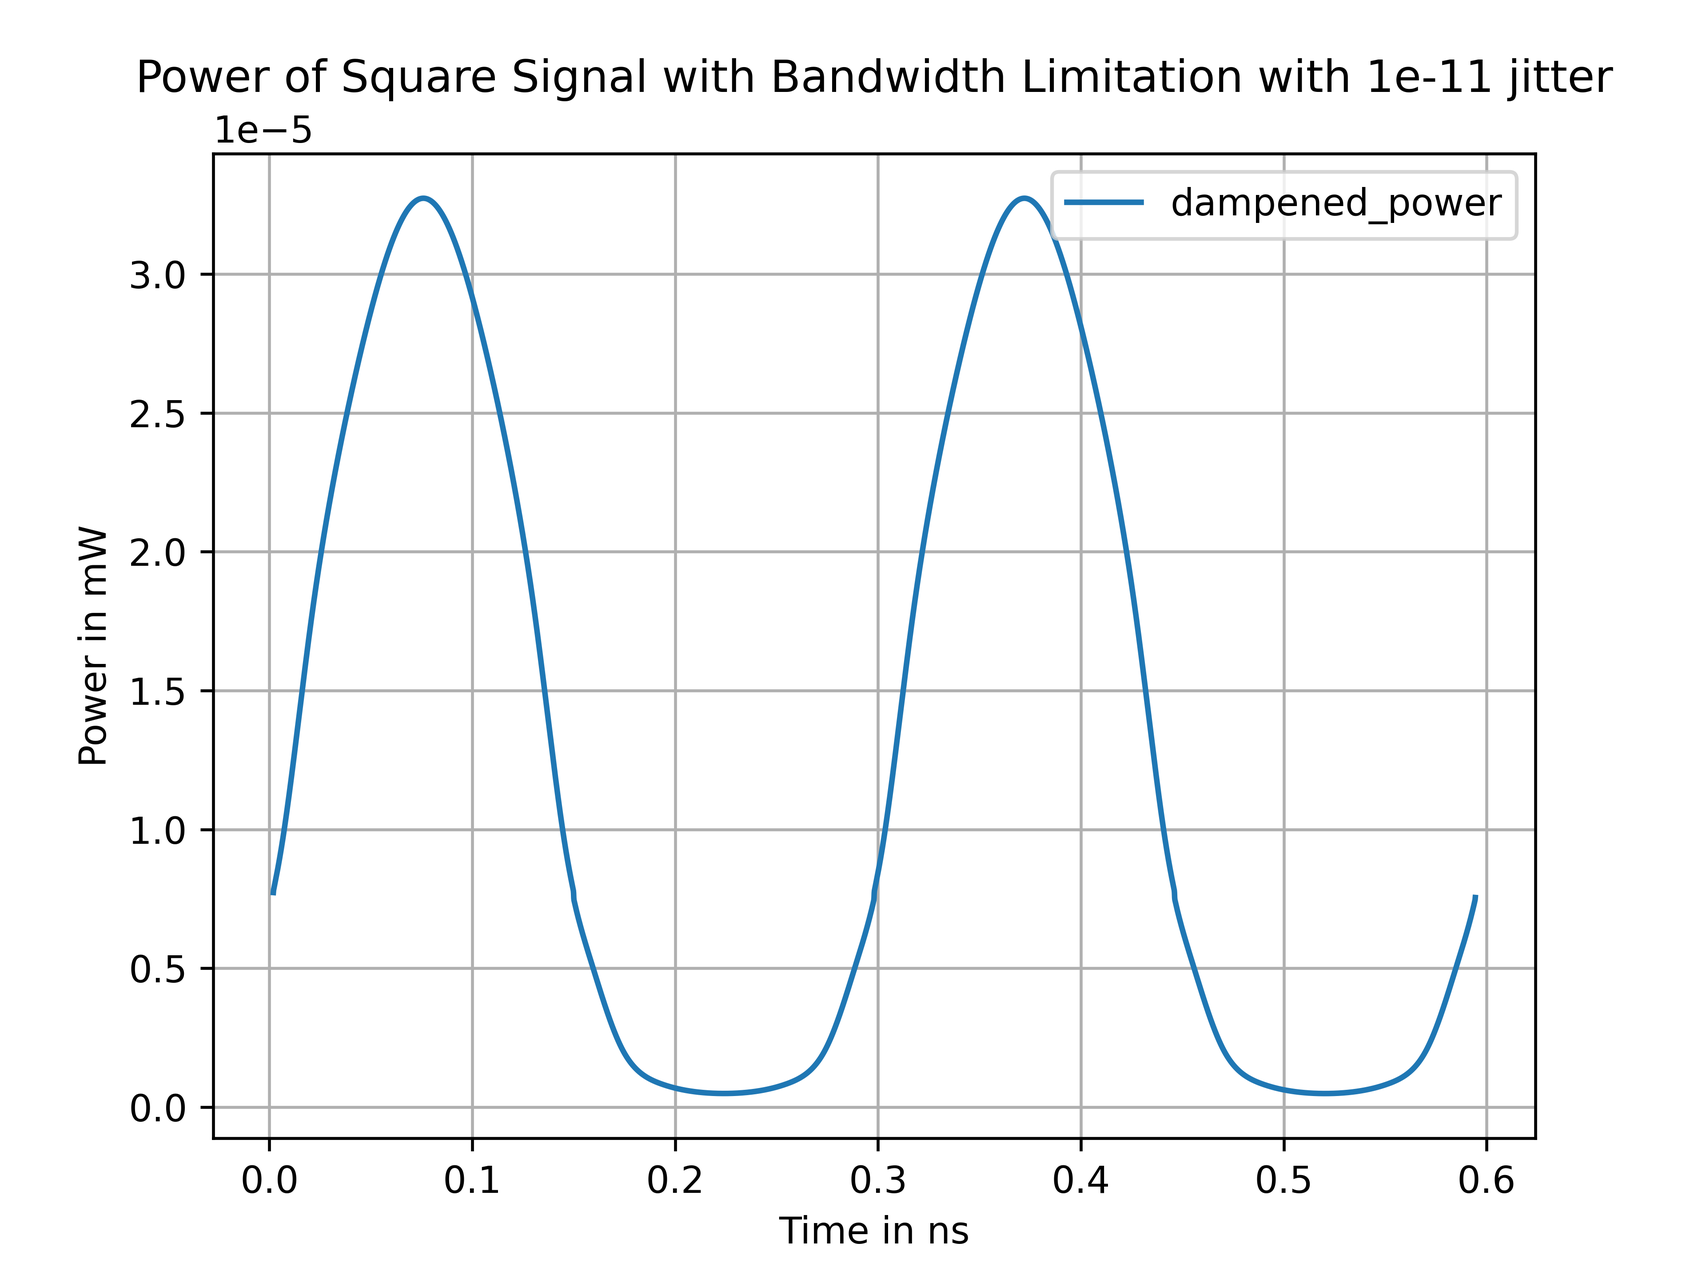
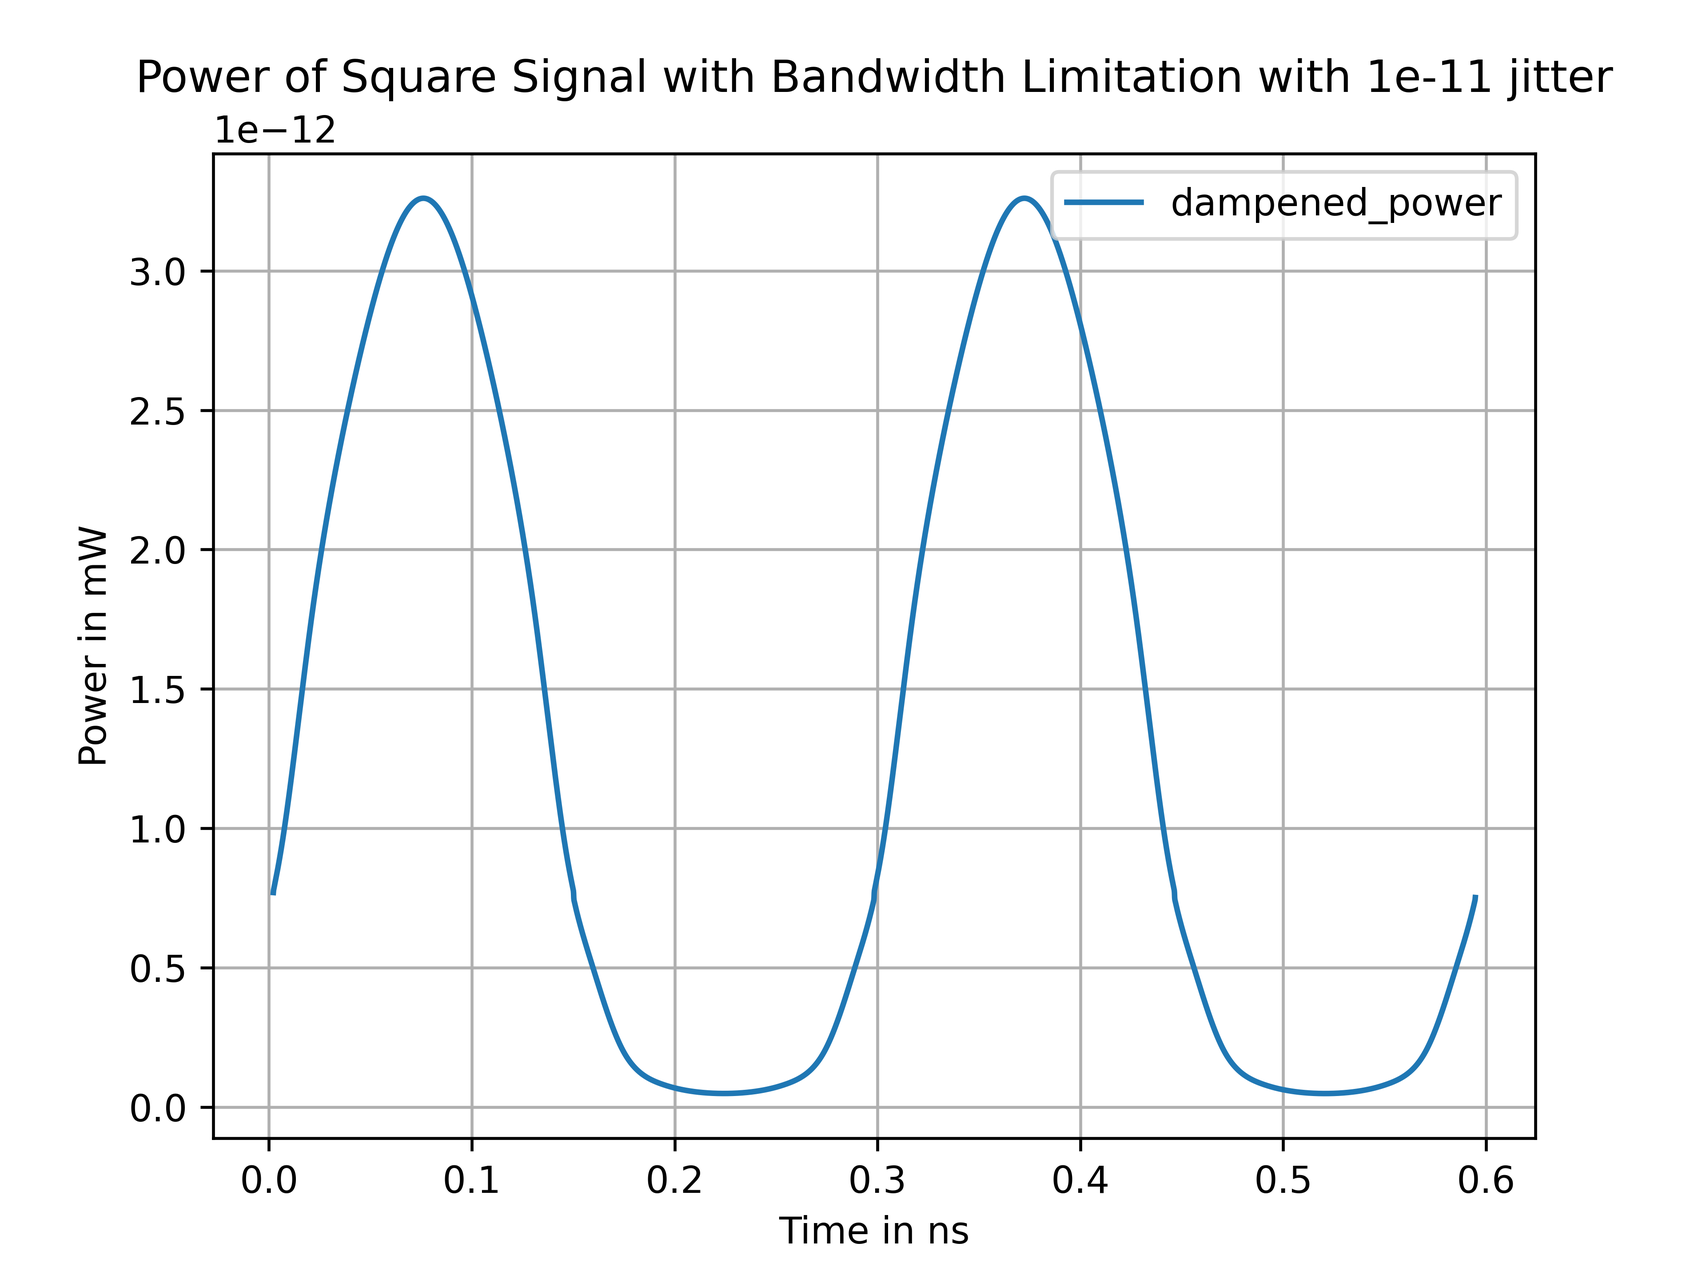
changed the find T_1 to basis0 and basis1 distinction and also binary search, changed order in eam:transmission of dampening - is working to get accurate T1, voltage_find not checked

diff --git a/code/projektpraktikum_symbol.py b/code/projektpraktikum_symbol.py
@@ -16,15 +16,10 @@ class dataManager:
         df = pd.read_csv(csv_file, nrows = rows)            
         df.columns = df.columns.str.strip()
 
-        # Debugging input data & flip
-        print("Column 1 values (x):", df[column1].values)
-        print("Column 2 values (y):", df[column2].values)
         #df.sort_values(by=column1, ascending=True)
         if not all(df[column1].diff().dropna() > 0):  # Check if the values are not in ascending order
             df[column1] = df[column1].iloc[::-1].reset_index(drop=True)  # Reverse the order of the column
             df[column2] = df[column2].iloc[::-1].reset_index(drop=True)  # Reverse the corresponding column
-            print(df[column1])
-            print(df[column2])
 
         # Ensure valid input
         df = df.sort_values(by=column1).drop_duplicates(subset=column1)
@@ -84,7 +79,8 @@ class dataManager:
     
 class Simulation:
     def __init__(self, data, n_samples = 10000, n_pulses = 4, p_z_alice=0.5, p_z_1=0.5, 
-                 p_decoy=0.1, sampling_rate_fft = 100e11, freq = 6.75e9, jitter = 1e-11, voltage_decoy = 1, voltage = 1, T1_dampening = 1,
+                 p_decoy=0.1, sampling_rate_fft = 100e11, freq = 6.75e9, jitter = 1e-11, voltage_decoy = 1, 
+                 voltage = 1, T1_dampening_0 = 1, T1_dampening_1 = 1,
                  eam_transmission_TP = -1, eam_transmission_HP = 0, eam_transmission_TP_decoy = -1, 
                  eam_transmission_HP_decoy = -0.6, mean_photon_nr = 0.7, mean_photon_decoy = 0.1):
         self.data = data
@@ -98,7 +94,8 @@ class Simulation:
         self.jitter = jitter
         self.voltage_decoy = voltage_decoy
         self.voltage = voltage
-        self.T1_dampening = T1_dampening
+        self.T1_dampening_0 = T1_dampening_0
+        self.T1_dampening_1 = T1_dampening_1
         self.eam_transmission_TP = eam_transmission_TP                  #V we use transmission curve till -1V Tiefpunkt
         self.eam_transmission_HP = eam_transmission_HP                  #V we use eam_transmission curve till 0V Hochpunkt
         self.eam_transmission_TP_decoy = eam_transmission_TP_decoy      
@@ -160,7 +157,7 @@ class Simulation:
 
         return (basis, value, decoy)
     
-    def signal_bandwidth_jitter(self, basis, value, decoy):
+    def signal_bandwidth_jitter(self, value, decoy):
         
         pulse_duration = 1 / self.freq  # Pulse duration for a 6.75e9 GHz square wave
         t = np.arange(0, self.n_pulses * pulse_duration, 1 / self.sampling_rate_fft)  # Time vector
@@ -184,35 +181,6 @@ class Simulation:
             repeating_square_pulse[:one_signal] = pulse_height
             repeating_square_pulse[2 * one_signal : 3* one_signal] = pulse_height
 
-        '''# Create a repeating square wave signal in time domain
-        one_signal = len(t) // self.n_pulses
-
-        basis = basis.item()
-        value = value.item()
-        value = decoy.item()
-
-        pulse_height = self.voltage_decoy if decoy == 1 else 1
-
-        
-        
-        patterns = {
-            1: [1, 0, 0, 0],  # 1000
-            0: [0, 0, 1, 0],  # 0010
-            -1: [1, 0, 0, 0]   # 1010
-            }
-        
-        print(f"Value: {value}")
-        if value not in patterns:
-            raise ValueError(f"Invalid value: {value}, must be one of {list(patterns.keys())}")
-
-        # Map the value to its corresponding pattern
-        base_pattern = np.array(patterns[value])
-        
-        # Repeat the base pattern and scale by pulse height
-        repeating_square_pulse = np.tile(base_pattern, one_signal) * pulse_height
-        '''
-        
-
         # Fourier transform to frequency domain for the repeating signal
         n_repeating = len(t)
         S_f_repeating = fft(repeating_square_pulse)
@@ -233,11 +201,12 @@ class Simulation:
         # Inverse Fourier transform back to the time domain
         s_filtered_repeating = np.real(ifft(S_filtered_repeating))
 
-        '''# Plot the filtered signal and the original signal
-        plt.figure(figsize=(12, 6))
+        # Plot the filtered signal and the original signal
+        '''#plt.figure(figsize=(12, 6))
         plt.plot(t * 1e9, repeating_square_pulse, label="Original Signal", alpha=1, marker="")
         plt.plot(t * 1e9, s_filtered_repeating, label="Cutoff: 4 GHz", alpha=0.7, marker ="")
-
+        plt.show()
+        
         # Final plot adjustments
         plt.title("voltage signal with bandwidth limitation and jitter")
         plt.xlabel("Time (ns)")
@@ -254,141 +223,149 @@ class Simulation:
         
         return s_filtered_repeating, t_jitter
 
-    def eam_transmission(self, s_filtered_repeating, t_jitter, optical_power, peak_wavelength, decoy):
-        #s_filtered_repeating, _, t_jitter, decoy = self.signal_bandwidth_jitter()
-        #optical_power, peak_wavelength = self.random_laser_output('current_power','voltage_shift', 'current_wavelength')
-
+    def eam_transmission(self, s_filtered_repeating, t_jitter, optical_power, peak_wavelength, basis, value, decoy):
         #include the eam_voltage and multiply with calculated optical power from laser
         power = np.empty(len(s_filtered_repeating))
-        voltage_min = np.min(s_filtered_repeating)
-        voltage_max = np.max(s_filtered_repeating)
+        if decoy == 1:
+            s_filtered_repeating_non_decoy, _ = self.signal_bandwidth_jitter(value, decoy = 0)
+            decoy = 1
+            voltage_min = np.min(s_filtered_repeating_non_decoy)
+            #print('voltage_min' +str(voltage_min))
+            voltage_max = np.max(s_filtered_repeating_non_decoy)
+            #print('voltage_max' +str(voltage_max))
+        else:
+            voltage_min = np.min(s_filtered_repeating)
+            voltage_max = np.max(s_filtered_repeating)
+        
+        print('optical power' +str(optical_power))
         for i in range(len(s_filtered_repeating)):
             voltage_for_eam_table = (s_filtered_repeating[i]-voltage_min) / (voltage_max - voltage_min) * (self.eam_transmission_HP-self.eam_transmission_TP) + self.eam_transmission_TP 
             transmission = self.get_interpolated_value(voltage_for_eam_table, 'eam_transmission')
             power[i] = transmission * optical_power
+        print('optical_power_imp'+str(optical_power))
+        
 
-        '''plt.plot(t_jitter * 1e9, power * 1e3, label = 'after eam') #fehlt optical power
+        if basis == 0:
+            power_dampened = power / self.T1_dampening_0
+        else:
+            power_dampened = power / self.T1_dampening_1
+        print('peakwavelength' + str(peak_wavelength))
+        energy_pp = np.trapz(power_dampened, t_jitter)
+
+        '''plt.plot(t_jitter * 1e9, power, label = 'after eam') #fehlt optical power
         plt.title("Power of Square Signal with Bandwidth Limitation with 1e-11 jitter")
         plt.xlabel("Time in ns")
-        plt.ylabel("Power in mW")
+        plt.ylabel("Power in W")
         plt.legend()
         plt.grid(True)
-        save_plot('power_after_transmission_with_4_GHz_bandwidth_and_1e-11s_jitter')'''
-        #plt.show()'''
+        #save_plot('power_after_transmission_with_4_GHz_bandwidth_and_1e-11s_jitter')
+        plt.show()'''
 
-        power_dampened = power / self.T1_dampening
-        energy_pp = np.trapz(power, t_jitter)
+        print('energy_pp' + str(energy_pp))
         calc_mean_photon_nr = energy_pp / (constants.h*constants.c/peak_wavelength)
         
         return power, power_dampened, calc_mean_photon_nr
 
-    def find_T1(self):
+    '''def find_T1(self):
+        #for 0 basis
         optical_power, peak_wavelength = self.random_laser_output('current_power','voltage_shift', 'current_wavelength')
         basis, value, decoy = self.generate_alice_choices_fixed(basis = 0, value = 0, decoy = 0)
-        s_filtered_repeating, t_jitter = self.signal_bandwidth_jitter(basis, value, decoy)
-        power, _, calc_mean_photon_nr = self.eam_transmission(s_filtered_repeating, t_jitter, optical_power, peak_wavelength, decoy)
+        s_filtered_repeating, t_jitter = self.signal_bandwidth_jitter(value, decoy)
+        power, _, calc_mean_photon_nr = self.eam_transmission(s_filtered_repeating, t_jitter, optical_power, peak_wavelength, basis, value, decoy)
 
-        #first round: calculate T1 dampening
+        #first round: calculate T1 dampening_0
+        if basis == 0:
+            power_dampened = power / self.T1_dampening_0
+        else:
+            power_dampened = power / self.T1_dampening_1
+        test_energy_pp = np.trapz(power_dampened, t_jitter)
+        test_nr_photons_pp = test_energy_pp / (constants.h*constants.c/peak_wavelength)
+        self.T1_dampening_0 = test_nr_photons_pp / self.mean_photon_nr
+        T1_dampening_dB_0 = 10* np.log(self.mean_photon_nr / test_nr_photons_pp)  #<0 ist Abschwächung
+
+        #for basis 1
+        basis, value, decoy = self.generate_alice_choices_fixed(basis = 1, value = 0, decoy = 0)
+        s_filtered_repeating, t_jitter = self.signal_bandwidth_jitter(value, decoy)
+        power, _, calc_mean_photon_nr = self.eam_transmission(s_filtered_repeating, t_jitter, optical_power, peak_wavelength, basis, value, decoy)
+
+        #first round: calculate T1 dampening_1
         test_energy_pp = np.trapz(power, t_jitter)
         test_nr_photons_pp = test_energy_pp / (constants.h*constants.c/peak_wavelength)
-        T1_dampening = test_nr_photons_pp / self.mean_photon_nr
-        T1_dampening_dB = 10* np.log(self.mean_photon_nr / test_nr_photons_pp)  #<0 ist Abschwächung
-        return T1_dampening, T1_dampening_dB
+        self.T1_dampening_1 = test_nr_photons_pp / self.mean_photon_nr
+        T1_dampening_dB_1 = 10* np.log(self.mean_photon_nr / test_nr_photons_pp)  #<0 ist Abschwächung
+        return T1_dampening_dB_0, T1_dampening_dB_1'''
     
-    def binary_search_for_voltage_decoy(self, lower_limit=0, upper_limit=10, tol=1e-5):
+    def find_T1_neu(self, lower_limit, upper_limit, tol):
+        # für 0 Basis
+        optical_power, peak_wavelength = self.random_laser_output('current_power','voltage_shift', 'current_wavelength')
+        basis, value, decoy = self.generate_alice_choices_fixed(basis = 0, value = 0, decoy = 0)
+
+        while upper_limit - lower_limit > tol:
+            self.T1_dampening_0 = (lower_limit + upper_limit) / 2
+            s_filtered_repeating, t_jitter = self.signal_bandwidth_jitter(value, decoy)
+            _, _, calc_mean_photon_nr = self.eam_transmission(s_filtered_repeating, t_jitter, optical_power, peak_wavelength, basis, value, decoy)
+            print('calc_mean_photon_nr: ' + str(calc_mean_photon_nr) + 'with dampening t1_0: ' + str(self.T1_dampening_0))
+
+            #compare calculated mean with target mean
+            if calc_mean_photon_nr < self.mean_photon_nr:  #!hier kleiner weil durch T1 geteilt wird ! anders als in find_voltage
+                upper_limit = self.T1_dampening_0 #reduce upper bound
+            else:
+                lower_limit = self.T1_dampening_0 #increase lower bound
+
+        #final voltage decoy
+        self.T1_dampening_0 = (lower_limit + upper_limit) / 2
+
+        # für Basis 1
+        optical_power, peak_wavelength = self.random_laser_output('current_power','voltage_shift', 'current_wavelength')
+        basis, value, decoy = self.generate_alice_choices_fixed(basis = 1, value = 0, decoy = 0)
+
+        while upper_limit - lower_limit > tol:
+            self.T1_dampening_1 = (lower_limit + upper_limit) / 2
+            s_filtered_repeating, t_jitter = self.signal_bandwidth_jitter(value, decoy)
+            _, _, calc_mean_photon_nr = self.eam_transmission(s_filtered_repeating, t_jitter, optical_power, peak_wavelength, basis, value, decoy)
+            print('calc_mean_photon_nr: ' + str(calc_mean_photon_nr))
+
+
+            #compare calculated mean with target mean
+            if calc_mean_photon_nr < self.mean_photon_decoy:   #!hier kleiner weil durch T1 geteilt wird !anders als in find_voltage
+                upper_limit = self.T1_dampening_1 #reduce upper bound
+            else:
+                lower_limit = self.T1_dampening_1 #increase lower bound
+
+        #final voltage decoy
+        self.T1_dampening_1 = (lower_limit + upper_limit) / 2
+        return None
+    
+    def binary_search_for_voltage_decoy(self, lower_limit, upper_limit, tol):
         basis, value, decoy = self.generate_alice_choices_fixed(basis = 0, value = 0, decoy = 1)
         optical_power, peak_wavelength = self.random_laser_output('current_power','voltage_shift', 'current_wavelength')
 
         while upper_limit - lower_limit > tol:
+            print('T1_dampening_0: ' + str(self.T1_dampening_0))
             self.voltage_decoy = (lower_limit + upper_limit) / 2
-            s_filtered_repeating, t_jitter = self.signal_bandwidth_jitter(basis, value, decoy)
-            _, _, calc_mean_photon_nr = self.eam_transmission(s_filtered_repeating, t_jitter, optical_power, peak_wavelength, decoy)
-            current_mean = abs(calc_mean_photon_nr-self.mean_photon_decoy)
-            
-            if current_mean > self.mean_photon_decoy:
-                upper_limit = self.voltage_decoy
-            else:
-                lower_limit = self.voltage_decoy
+            print('self.voltage_decoy: ' +str(self.voltage_decoy))
+            s_filtered_repeating, t_jitter = self.signal_bandwidth_jitter(value, decoy)
+            _, _, calc_mean_photon_nr = self.eam_transmission(s_filtered_repeating, t_jitter, optical_power, peak_wavelength, basis, value, decoy)
+            print('calc_mean_photon_nr: ' + str(calc_mean_photon_nr))
 
+            #compare calculated mean with target mean
+            if calc_mean_photon_nr > self.mean_photon_decoy:
+                upper_limit = self.voltage_decoy #reduce upper bound
+            else:
+                lower_limit = self.voltage_decoy #increase lower bound
+
+        #final voltage decoy
         self.voltage_decoy = (lower_limit + upper_limit) / 2
         return None
 
-    '''def find_voltage_decoy(self, lower_limit = 0.3, upper_limit = 1, tol=1e5):
-        optical_power, peak_wavelength = self.random_laser_output('current_power','voltage_shift', 'current_wavelength')
-        basis, value, decoy = self.generate_alice_choices_fixed(basis = 0, value = 0, decoy = 0)
-        s_filtered_repeating, t_jitter = self.signal_bandwidth_jitter(basis, value, decoy)
-        power = self.eam_transmission(s_filtered_repeating, t_jitter, optical_power, peak_wavelength, decoy)
-
-        closest_number = None
-        closest_difference = float('inf')
-        for candidate in range(start_voltage, end_voltage + 1):
-            #calculate mean photon number
-            s_filtered_repeating, t_jitter = self.signal_bandwidth_jitter(basis, value, decoy)
-            power = self.eam_transmission(s_filtered_repeating, t_jitter, optical_power, peak_wavelength, decoy)
-            calc_mean_photon_nr = self.calc_mean_photon_nr(candidate, s_filtered_repeating, power, t_jitter, optical_power, peak_wavelength, T1_dampening)
-            difference = abs(calc_mean_photon_nr - self.mean_photon_decoy)
-            
-            # Update if this is the closest so far
-            if difference < closest_difference:
-                closest_difference = difference
-                closest_number = candidate
-
-            # Stop searching if within tolerance
-            if difference <= tolerance:
-                return candidate, calc_mean_photon_nr, difference
-            
-            self.voltage_decoy = 
-        return closest_number, calc_mean_photon_nr(closest_number), closest_difference'''
-
-    def calc_mean_photon_nr(self, candidate, s_filtered_repeating, power, t_jitter, optical_power, peak_wavelength, T1_dampening):
-        #include the eam_voltage and multiply with calculated optical power from laser
-        power = np.empty(len(s_filtered_repeating))*candidate
-        voltage_min = np.min(s_filtered_repeating)
-        voltage_max = np.max(s_filtered_repeating)
-        voltage_for_eam_table = (s_filtered_repeating-voltage_min) / (voltage_max - voltage_min) * (self.eam_transmission_HP-self.eam_transmission_TP) + self.eam_transmission_TP 
-        transmission = self.get_interpolated_value(voltage_for_eam_table, 'eam_transmission')
-        power = transmission * optical_power
-
-        #calculate mean photon number
-        test_energy_pp = np.trapz(power, t_jitter)
-        test_nr_photons_pp = test_energy_pp / (constants.h*constants.c/peak_wavelength)
-        calc_mean_photon_nr = test_nr_photons_pp / T1_dampening
-        return calc_mean_photon_nr
-
-    def get_output(self):
-        #alternative: self.laser_outputs = [self.random_laser_output() for _ in range(self.n_samples)]
-        all_optical_power = np.empty(self.n_samples)
-        all_peak_wavelength = np.empty(self.n_samples)
-
-        for i in range(self.n_samples):
-            all_optical_power[i], all_peak_wavelength[i] = self.random_laser_output('current_power','voltage_shift', 'current_wavelength')
-        return all_optical_power, all_peak_wavelength
-    
-    def get_output_symbols(self):
-        all_jitter = np.empty(self.n_samples)
-        for i in range(self.n_samples):
-            _, _, _, all_jitter[i] = self.generate_alice_choices()
-        print(all_jitter)
-        return all_jitter
-
-    def get_output_power_decoy(self):
-        '''power_dampened, T1_dampening, t_jitter = self.eam_transmission()
-        plt.plot(t_jitter * 1e9, power_dampened * 1e3, label = 'dampened_power') #fehlt optical power
-        plt.title("Power of Square Signal with Bandwidth Limitation with 1e-11 jitter")
-        plt.xlabel("Time in ns")
-        plt.ylabel("Power in mW")
-        plt.legend()
-        plt.grid(True)
-        save_plot('new_T1_dampening_power_after_transmission_with_4_GHz_bandwidth_and_1e-11s_jitter')
-        #plt.show()'''
-
     def initialize(self):
         #first round: calculate T1 dampening 
-        T1_dampening, T1_dampening_dB = self.find_T1()
-        print('T1_dampening' +str(T1_dampening))
+        self.find_T1_neu(lower_limit = 0, upper_limit = 100, tol = 1e-3)
+        print('T1_dampening_0 at initialize end' +str(self.T1_dampening_0))
+        print('T1_dampening_1 at initialize end' + str(self.T1_dampening_1))
 
         #with first decoy state: calculate decoy height
-        self.binary_search_for_voltage_decoy(lower_limit=0, upper_limit=10, tol=1e-5)
+        self.binary_search_for_voltage_decoy(lower_limit=0, upper_limit=1, tol=1e-7)
         print('Voltage_decoy' + str(self.voltage_decoy))
 
         return None
@@ -397,9 +374,9 @@ class Simulation:
         
         self.initialize()
         optical_power, peak_wavelength = self.random_laser_output('current_power','voltage_shift', 'current_wavelength')
-        basis, value, decoy = self.generate_alice_choices_fixed(basis = 0, value = 0, decoy = 0)
-        s_filtered_repeating, t_jitter = self.signal_bandwidth_jitter(basis, value, decoy)
-        power, power_dampened, calc_mean_photon_nr = self.eam_transmission(s_filtered_repeating, t_jitter, optical_power, peak_wavelength, decoy)    
+        basis, value, decoy = self.generate_alice_choices_fixed(basis = 0, value = 0, decoy = 0)   #11: 1000, 10: 0010, 00: 1010
+        s_filtered_repeating, t_jitter = self.signal_bandwidth_jitter(value, decoy)
+        power, power_dampened, calc_mean_photon_nr = self.eam_transmission(s_filtered_repeating, t_jitter, optical_power, peak_wavelength, basis, value, decoy)    
         
         plt.plot(t_jitter * 1e9, power_dampened * 1e3, label = 'dampened_power') #fehlt optical power
         plt.title("Power of Square Signal with Bandwidth Limitation with 1e-11 jitter")
@@ -408,7 +385,7 @@ class Simulation:
         plt.legend()
         plt.grid(True)
         save_plot('new_T1_dampening_power_after_transmission_with_4_GHz_bandwidth_and_1e-11s_jitter')
-        #plt.show()
+        #plt.show()'''
 
     
 
@@ -448,15 +425,12 @@ execution_time = end_time - start_time  # Calculate execution time
 print(f"Execution time: {execution_time:.9f} seconds for {simulation.n_samples} samples")
 
 #plot results
-#all_jitter = simulation.get_output_symbols()
-#basis, value, decoy, jittershift = simulation.generate_alice_choices()
 simulation.run_simultation()
 
 end_time_2 = time.time()  # Record end time
 execution_time_2 = end_time_2 - start_time  # Calculate execution time
 print(f"Execution time after writing in Array: {execution_time_2:.9f} seconds for {simulation.n_samples} samples")
 
-simulation.get_output_power_decoy()
 '''x = np.linspace(0, simulation.n_pulses // simulation.symbol_length -1, simulation.n_pulses // simulation.symbol_length)
 plt.hist(all_jitter * 1e12, bins=30, label='jitter', alpha=0.7)
 plt.title('jittershift over ' + str(simulation.n_samples) + ' iterations',size = 14)
